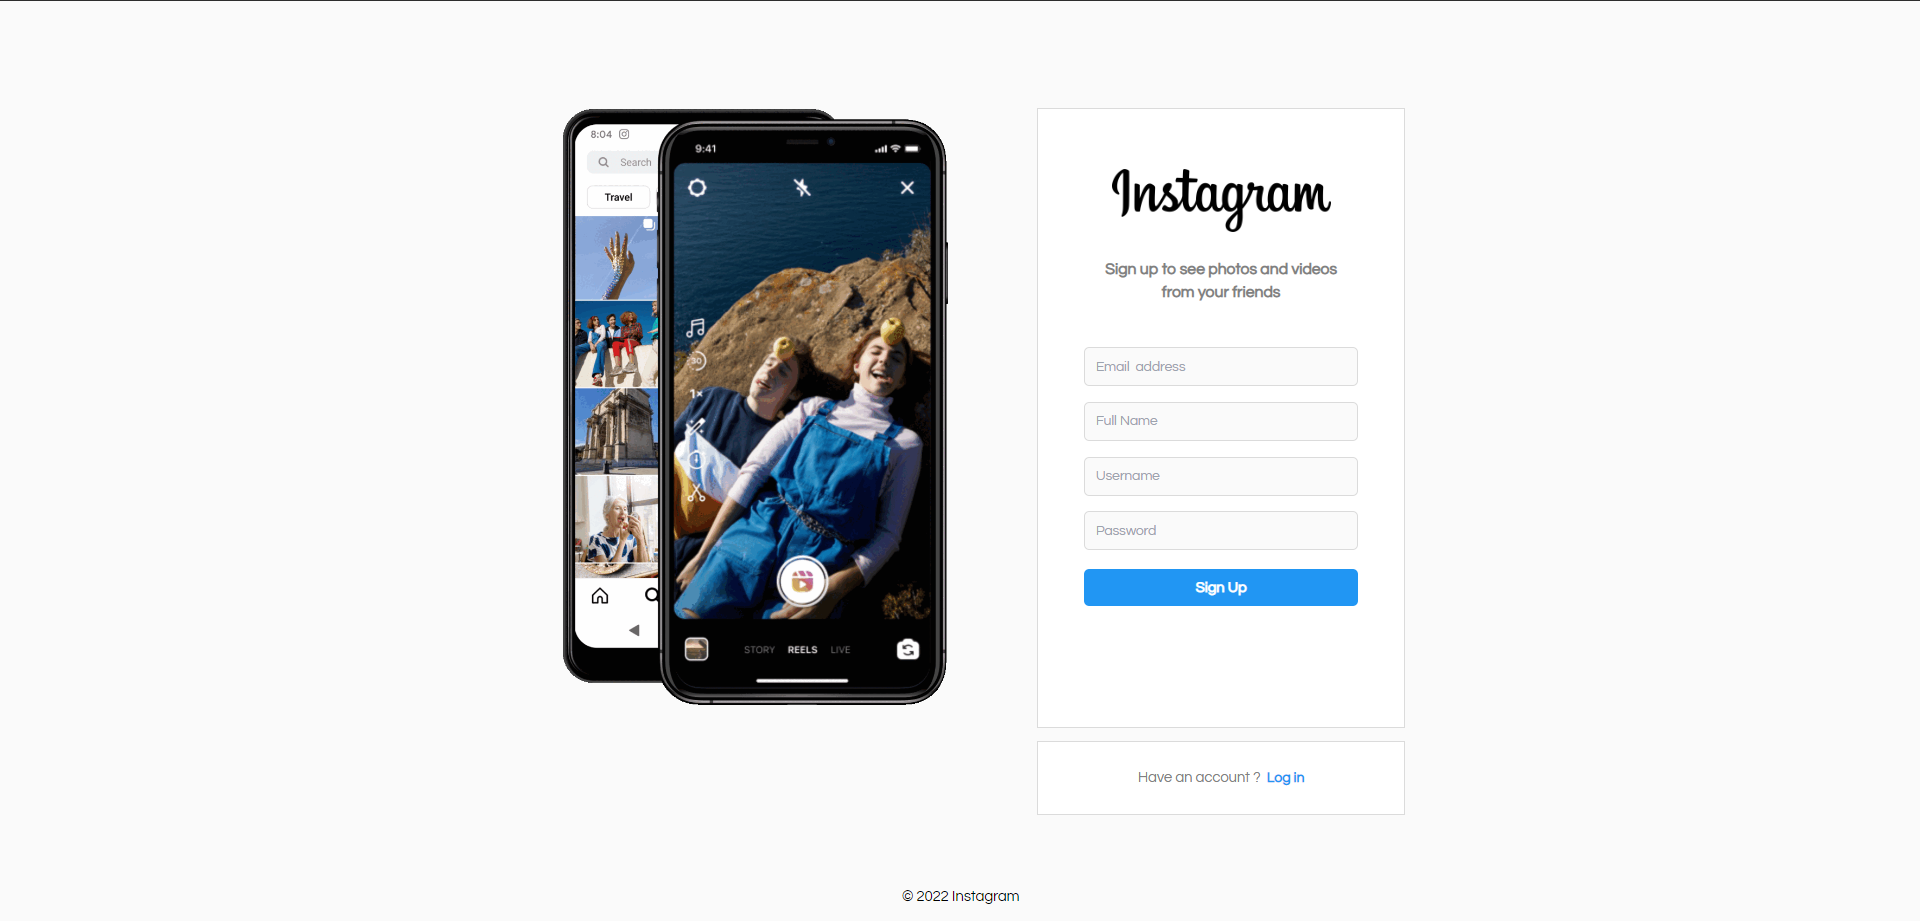
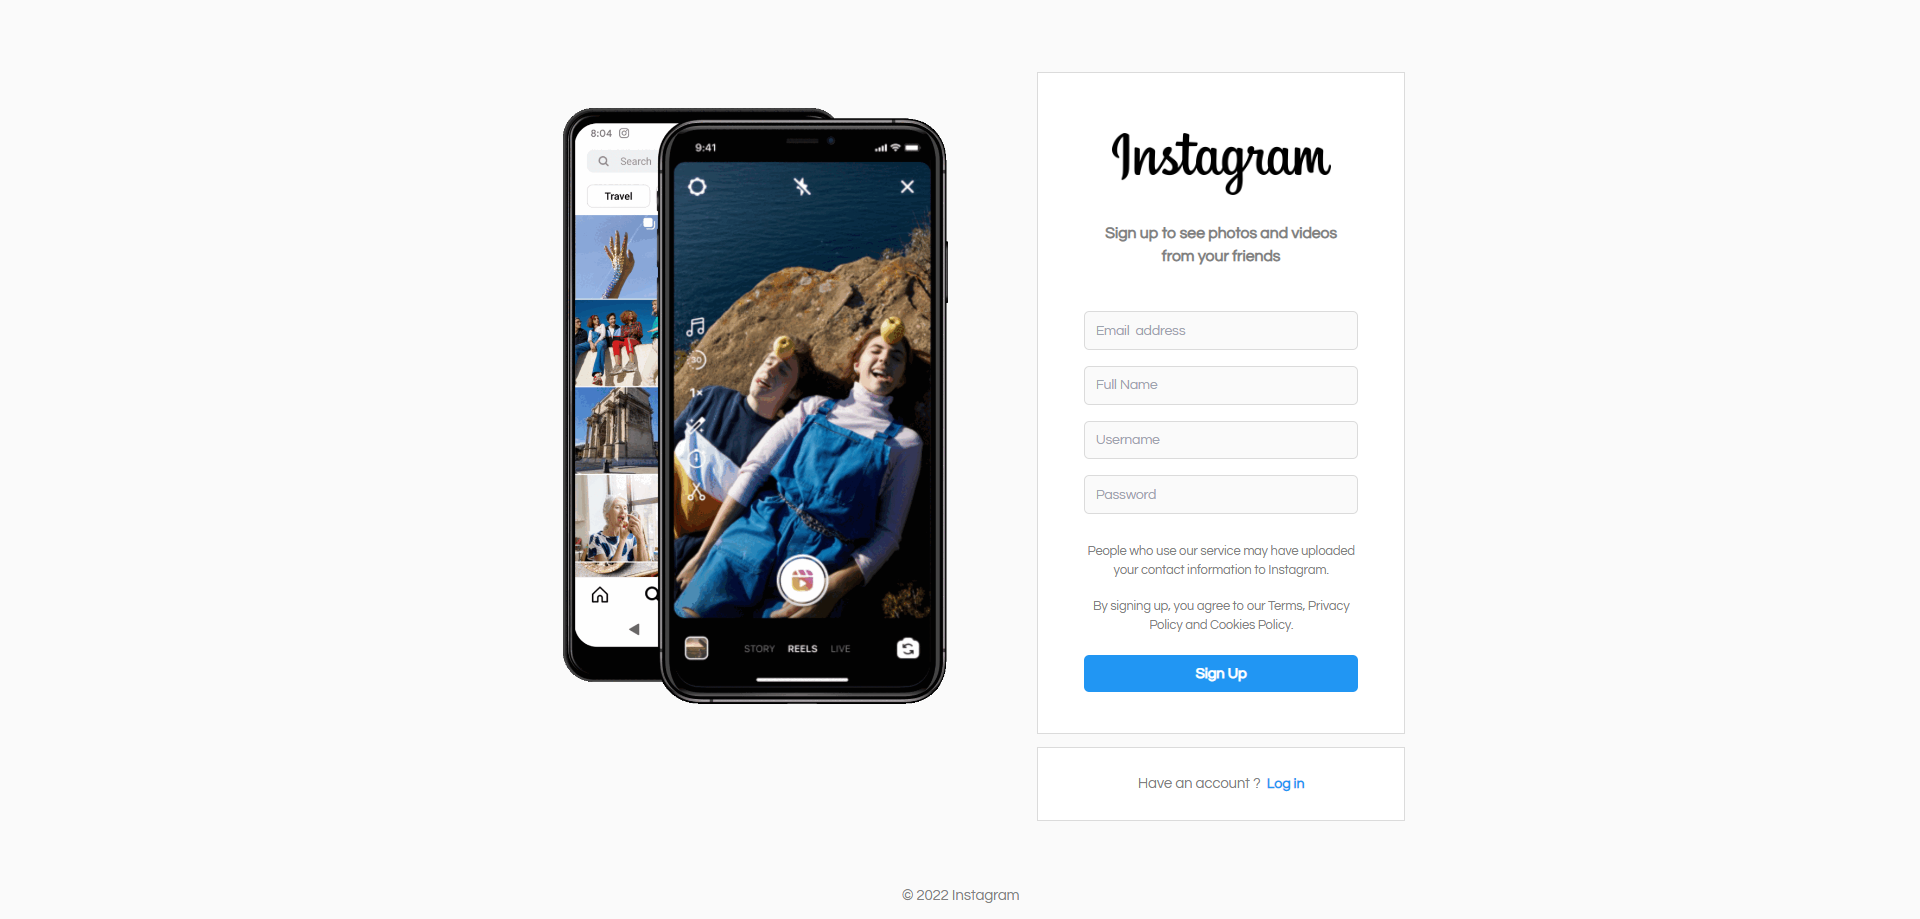
minor ui fixes

diff --git a/frontend/src/components/login/SignupCard.jsx b/frontend/src/components/login/SignupCard.jsx
@@ -8,16 +8,26 @@ export const SignupCard = () => {
         <div className="right-login">
             <div className="signup-box border">
                 <img style={{ width: '60%', margin: '35px 0', marginBottom: '25px', }} src={logo} alt="" />
-                <p style={{ marginTop: '0px', color: 'gray', fontSize: '15px' ,marginBottom:'25px',width:'70%',textAlign:'center',fontWeight:'bold'}}>Sign up to see photos and videos from your friends</p>
+                <p style={{ marginTop: '0px', color: 'gray', fontSize: '15px', marginBottom: '25px', width: '70%', textAlign: 'center', fontWeight: 'bold' }}>Sign up to see photos and videos from your friends</p>
 
-                <input className='border' style={{ marginTop: '15px', width: '75%', height: '37px', fontSize: '13px', backgroundColor: '#fafafa ', padding: '0 9px', outline: 'none',borderRadius:'5px' }} type="text" placeholder='Email  address' />
-                <input className='border' style={{ marginTop: '15px', width: '75%', height: '37px', fontSize: '13px', backgroundColor: '#fafafa ', padding: '0 9px', outline: 'none',borderRadius:'5px'  }} type="text" placeholder='Full Name' />
-                <input className='border' style={{ marginTop: '15px', width: '75%', height: '37px', fontSize: '13px', backgroundColor: '#fafafa ', padding: '0 9px', outline: 'none',borderRadius:'5px'  }} type="text" placeholder='Username' />
-                <input className='border' style={{ marginTop: '15px', width: '75%', height: '37px', fontSize: '13px', backgroundColor: '#fafafa ', padding: '0 9px', outline: 'none',borderRadius:'5px'  }} type="password" placeholder='Password' />
-                <button style={{ border: 'none', outline: 'none', background: 'blue', padding: '7px 9px', borderRadius: '5px', color: 'white', backgroundColor: '#2196f3', marginTop: '18px', fontSize: '13.85px', width: '75%',fontWeight:'bold' }}>Sign Up</button>
+                <input className='border' style={{ marginTop: '15px', width: '75%', height: '37px', fontSize: '13px', backgroundColor: '#fafafa ', padding: '0 9px', outline: 'none', borderRadius: '5px' }} type="text" placeholder='Email  address' />
+                <input className='border' style={{ marginTop: '15px', width: '75%', height: '37px', fontSize: '13px', backgroundColor: '#fafafa ', padding: '0 9px', outline: 'none', borderRadius: '5px' }} type="text" placeholder='Full Name' />
+                <input className='border' style={{ marginTop: '15px', width: '75%', height: '37px', fontSize: '13px', backgroundColor: '#fafafa ', padding: '0 9px', outline: 'none', borderRadius: '5px' }} type="text" placeholder='Username' />
+                <input className='border' style={{
+                    marginTop: '15px', width: '75%', height: '37px', fontSize: '13px', backgroundColor: '#fafafa ', padding: '0 9px',
+                    outline: 'none', borderRadius: '5px'
+                }} type="password" placeholder='Password' />
+                <p style={{ color: 'gray', fontSize: '12px',textAlign:'center',width:'78%',marginTop:'27px' }}>
+                    People who use our service may have uploaded your contact information to Instagram.
+                </p>
+                <p style={{ color: 'gray', fontSize: '12px',textAlign:'center',width:'78%',marginTop:'17px' }}>
+
+                    By signing up, you agree to our Terms, Privacy Policy and Cookies Policy.
+                </p>
+                <button style={{ border: 'none', outline: 'none', background: 'blue', padding: '7px 9px', borderRadius: '5px', color: 'white', backgroundColor: '#2196f3', marginTop: '18px', fontSize: '13.85px', width: '75%', fontWeight: 'bold' }}>Sign Up</button>
             </div>
             <div className="signup-action-box border" style={{ textAlign: 'center' }}>
-            <p style={{ color: 'gray', fontSize: '14px' }}>Have an account ?<Link to="/login" style={{ color: '#2196f3', fontWeight: 'bold', marginLeft: '6px',textDecoration:'none',fontSize:'13.5px' }}>Log in</Link></p>
+                <p style={{ color: 'gray', fontSize: '14px' }}>Have an account ?<Link to="/login" style={{ color: '#2196f3', fontWeight: 'bold', marginLeft: '6px', textDecoration: 'none', fontSize: '13.5px' }}>Log in</Link></p>
             </div>
         </div>
     )

diff --git a/frontend/src/components/login/LoginCard.jsx b/frontend/src/components/login/LoginCard.jsx
@@ -11,7 +11,7 @@ export const LoginCard = () => {
                 <input className='border' style={{ marginTop: '10px', width: '75%', height: '37px', fontSize: '13px', padding: '0 9px', outline: 'none',borderRadius:'5px',backgroundColor: '#fafafa '}} type="text" placeholder='Username or email  address' />
                 <input className='border' style={{ marginTop: '15px', width: '75%', height: '37px', fontSize: '13px', backgroundColor: '#fafafa ', padding: '0 9px', outline: 'none',borderRadius:'5px' }} type="password" placeholder='Password' />
                 <button style={{ border: 'none', outline: 'none', background: 'blue', padding: '7px 9px', borderRadius: '5px', color: 'white', backgroundColor: '#2196f3', marginTop: '18px', fontSize: '13px', width: '75%',fontWeight:'bold' }}>Login</button>
-                <p style={{ marginTop: '85px', color: 'gray', fontSize: '13.85px' }}>Forgotten your password ?</p>
+                <p style={{ marginTop: '85px', color: 'gray', fontSize: '13.15px' }}>Forgotten your password ?</p>
             </div>
             <div className="signup-action-box border" style={{ textAlign: 'center' }}>
                 <p style={{ color: 'gray', fontSize: '14px' }}>Don't have an account?<Link to="/signup" style={{ color: '#2196f3', fontWeight: 'bold', marginLeft: '6px',textDecoration:'none',fontSize:'13.25px'  }}>Sign up</Link></p>

diff --git a/frontend/src/pages/Signup.jsx b/frontend/src/pages/Signup.jsx
@@ -13,7 +13,7 @@ export function Signup() {
             </div>
             <SignupCard/>
             
-            <span style={{position:'absolute',bottom:'15px',fontSize:'14px'}}>© 2022 Instagram</span>
+            <span style={{position:'absolute',bottom:'15px',fontSize:'14px',color:'gray'}}>© 2022 Instagram</span>
         </div>
     </div>
   )

diff --git a/frontend/src/pages/Login.jsx b/frontend/src/pages/Login.jsx
@@ -12,7 +12,7 @@ export function Login() {
             </div>
             <LoginCard/>
             
-            <span style={{position:'absolute',bottom:'15px',fontSize:'14px'}}>© 2022 Instagram</span>
+            <span style={{position:'absolute',bottom:'15px',fontSize:'14px',color:'gray'}}>© 2022 Instagram</span>
         </div>
     )
 }

diff --git a/frontend/src/index.css b/frontend/src/index.css
@@ -108,12 +108,13 @@ body {
 }
 .signup-box {
   background-color: white;
-  min-height: 590px;
+  min-height: 630px;
   width: 350px;
   display: flex;
   flex-direction: column;
   align-items: center;
   padding-top: 22px;
+  margin-top: -3.8vh;
 
 }
 
